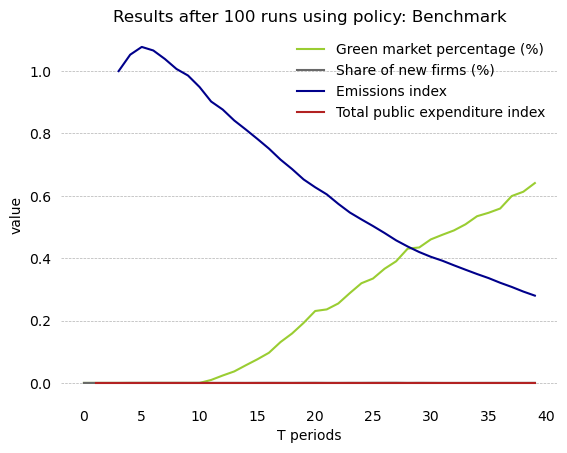
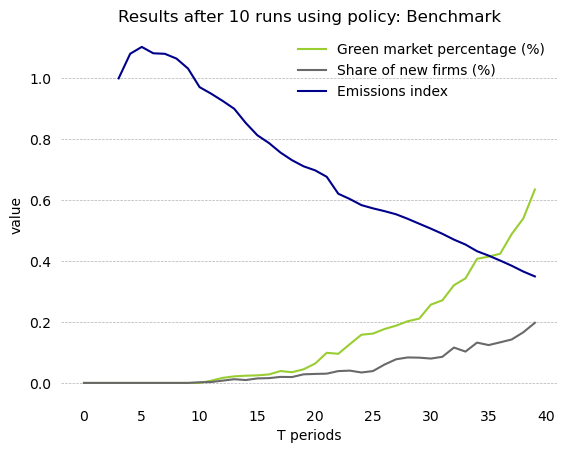
benchmark plot sem public expenditure

diff --git a/generalization.py b/generalization.py
@@ -27,7 +27,8 @@ seed = False
 def processing_averages(pol_results):
     # Receives a specific policy dictionary of results of runs and processes the averages
     averages = dict()
-    cols = ['green_market_share', 'new_firms_share', 'emissions_index', 'public_cumulative']
+    # cols = ['green_market_share', 'new_firms_share', 'emissions_index', 'public_cumulative']
+    cols = ['green_market_share', 'new_firms_share', 'emissions_index']
     for col in cols:
         averages[col] = pd.DataFrame()
     for run in pol_results:
@@ -131,7 +132,7 @@ def benchmark(n=10):
 
 if __name__ == '__main__':
     t0 = time.time()
-    m = 3
+    m = 10
     benchmark(m)
     # r, l, m = policies(m)
     # plot_policies(r, l, m)
